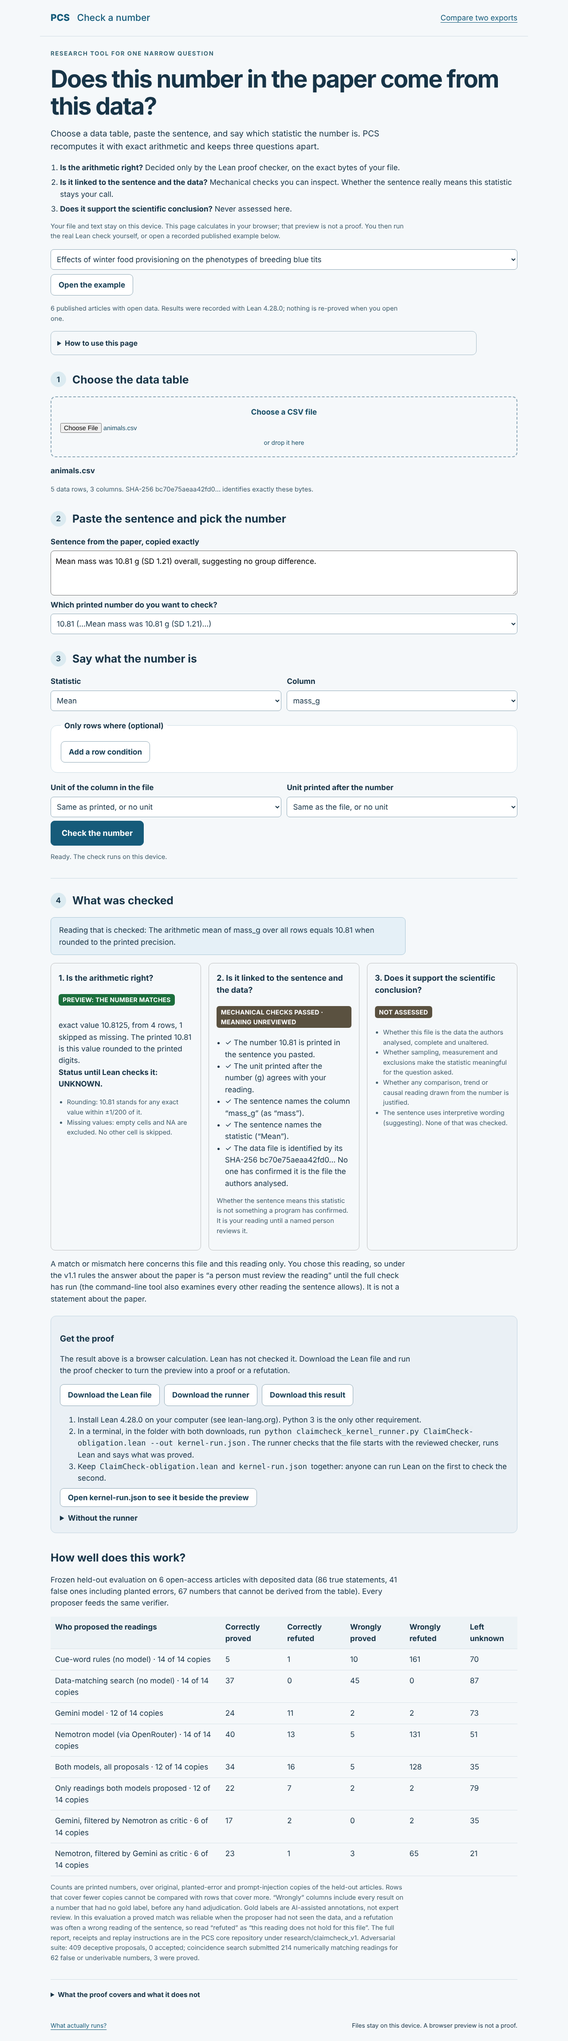
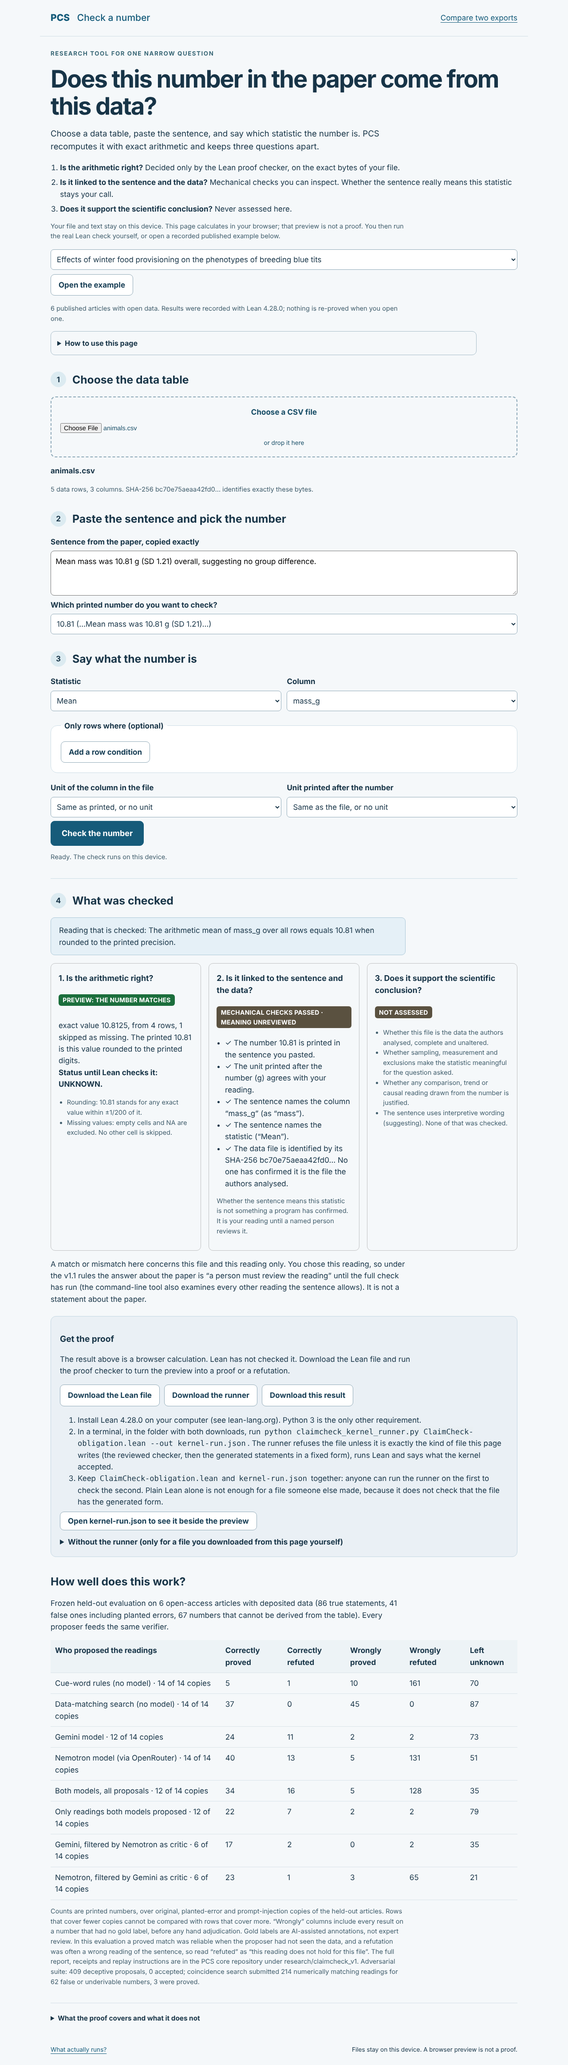
Claim check: serve the strict kernel runner; accept only its receipts; say what a kernel run verifies
Owner decisions C3/D4, authorised 2026-11-16 for preparation and testing. Not
deployed, not merged.

- public/claim-check/claimcheck_kernel_runner.py is now the core repository's
  strict runner (core commits d5a36975, 2de4f872; SHA-256 fe974a9f..., receipt
  schema v2). It refuses, before starting Lean, any proof file whose generated
  part is not exactly in the generator's form. examples.json pins the new digest
  and lists the withdrawn runner (8d9e07b4..., schema v1) with the reason.
- The page accepts only v2 receipts, refuses v1 receipts with the reason,
  requires generated_part_canonical, checks that the reported outcomes agree
  with the proof file it builds, and words each result itself instead of
  showing text from the report. Beside every reported run it says what a kernel
  run verifies (the supplied mathematical obligation, about the exact bytes of
  this file) and what no kernel run verifies (that the obligation faithfully
  represents the sentence, the number or the data of a paper).
- The page no longer suggests that plain Lean checks a proof file someone else
  made; it points to the runner, which checks the file's form.
- tests/claim-check-page.test.mjs runs the served runner: a page-built proof
  file (8 claims, every claim shape, an undefined outcome) reaches Lean; the
  reported forgery and a file with an extra definition are refused and Lean is
  never started.
- scripts/browser_claim_check.cjs, with the real Lean 4.28.0 kernel: the
[…]

diff --git a/public/claim-check.html b/public/claim-check.html
@@ -15,8 +15,8 @@
 <section id="result" hidden tabindex="-1"><div class="step-title"><span>4</span><h2>What was checked</h2></div><p id="reading" class="notice"></p>
 <div class="cards"><article id="q1"><h3>1. Is the arithmetic right?</h3><p id="q1Status" class="badge"></p><p id="q1Text"></p><ul id="q1Assumptions" class="small"></ul></article><article id="q2"><h3>2. Is it linked to the sentence and the data?</h3><p id="q2Status" class="badge"></p><ul id="q2Checks"></ul><p class="small">Whether the sentence means this statistic is not something a program has confirmed. It is your reading until a named person reviews it.</p></article><article id="q3"><h3>3. Does it support the scientific conclusion?</h3><p class="badge neutral">NOT ASSESSED</p><ul id="q3List" class="small"></ul></article></div>
 <p id="scope"></p>
-<div class="local-check"><h3>Get the proof</h3><p id="proofText">The result above is a browser calculation. Lean has not checked it.</p><div class="toolbar"><button id="downloadLean" disabled>Download the Lean file</button><a id="runnerLink" class="file-button secondary" href="claim-check/claimcheck_kernel_runner.py" download>Download the runner</a><button id="downloadDraft" disabled>Download this result</button></div><ol><li>Install Lean 4.28.0 on your computer (see lean-lang.org). Python 3 is the only other requirement.</li><li>In a terminal, in the folder with both downloads, run <code>python claimcheck_kernel_runner.py ClaimCheck-obligation.lean --out kernel-run.json</code>. The runner checks that the file starts with the reviewed checker, runs Lean and says what was proved.</li><li>Keep <code>ClaimCheck-obligation.lean</code> and <code>kernel-run.json</code> together: anyone can run Lean on the first to check the second.</li></ol><label class="file-button secondary">Open kernel-run.json to see it beside the preview<input id="kernelRun" type="file" accept=".json,application/json"></label><p id="kernelRunStatus" class="notice" role="status" hidden></p><details><summary>Without the runner</summary><ol><li>Run <code>lean ClaimCheck-obligation.lean</code> in a terminal.</li><li>If Lean prints only a line that starts with <code>'pcs_claim_0' depends on axioms:</code> and lists nothing beyond <code>propext</code>, <code>Classical.choice</code> and <code>Quot.sound</code>, the proof checker accepted the statement. Any error means it did not.</li></ol><p class="small">The file contains the fixed checker, your data as one number, the claim and the expected outcome. The proof checker parses the bytes and recomputes the statistic itself. Nothing computed by this page is taken on trust.</p></details></div></section>
+<div class="local-check"><h3>Get the proof</h3><p id="proofText">The result above is a browser calculation. Lean has not checked it.</p><div class="toolbar"><button id="downloadLean" disabled>Download the Lean file</button><a id="runnerLink" class="file-button secondary" href="claim-check/claimcheck_kernel_runner.py" download>Download the runner</a><button id="downloadDraft" disabled>Download this result</button></div><ol><li>Install Lean 4.28.0 on your computer (see lean-lang.org). Python 3 is the only other requirement.</li><li>In a terminal, in the folder with both downloads, run <code>python claimcheck_kernel_runner.py ClaimCheck-obligation.lean --out kernel-run.json</code>. The runner refuses the file unless it is exactly the kind of file this page writes (the reviewed checker, then the generated statements in a fixed form), runs Lean and says what the kernel accepted.</li><li>Keep <code>ClaimCheck-obligation.lean</code> and <code>kernel-run.json</code> together: anyone can run the runner on the first to check the second. Plain Lean alone is not enough for a file someone else made, because it does not check that the file has the generated form.</li></ol><label class="file-button secondary">Open kernel-run.json to see it beside the preview<input id="kernelRun" type="file" accept=".json,application/json"></label><p id="kernelRunStatus" class="notice" role="status" hidden></p><details><summary>Without the runner (only for a file you downloaded from this page yourself)</summary><ol><li>Run <code>lean ClaimCheck-obligation.lean</code> in a terminal.</li><li>If Lean prints only a line that starts with <code>'pcs_claim_0' depends on axioms:</code> and lists nothing beyond <code>propext</code>, <code>Classical.choice</code> and <code>Quot.sound</code>, the proof checker accepted the statement. Any error means it did not.</li></ol><p class="small">The file contains the fixed checker, your data as one number, the claim and the expected outcome. The proof checker parses the bytes and recomputes the statistic itself. Nothing computed by this page is taken on trust.</p></details></div></section>
 <section id="recorded" hidden><h2>Recorded Lean results for this example</h2><p id="recordedNote" class="small"></p><div class="table-scroll"><table><thead><tr><th>What can be said (v1.1 rules)</th><th>Mathematics (recorded Lean result)</th><th>Sentence in the paper</th><th>Reading that was checked</th><th>Exact value</th></tr></thead><tbody id="recordedRows"></tbody></table></div><p id="recordedBinding" class="small" role="status"></p><div class="toolbar"><button id="recordedLean" disabled>Download the Lean file</button><button id="recordedReceipts">Download the receipts</button><button id="recordedData">Download the data</button></div><p id="recordedSource" class="small"></p></section>
 <section id="evidence"><h2>How well does this work?</h2><p id="benchmarkText">Loading the held-out evaluation.</p><div class="table-scroll"><table id="benchmarkTable" hidden><thead><tr><th>Who proposed the readings</th><th>Correctly proved</th><th>Correctly refuted</th><th>Wrongly proved</th><th>Wrongly refuted</th><th>Left unknown</th></tr></thead><tbody id="benchmarkRows"></tbody></table></div><p id="benchmarkNotes" class="small"></p></section>
-<details class="scope"><summary>What the proof covers and what it does not</summary><p>The Lean statement is about a fixed, published checker: it parses the exact bytes of the CSV file, selects rows, computes the statistic with exact fractions and compares it with the printed value at the printed precision. Standard deviations and correlations are compared by squaring, which a separate proof shows is the same as the real-number comparison.</p><p>A proof does not show that the file is the data the authors analysed, that the sentence means this statistic, or that the number supports any conclusion. A refutation shows a mismatch for this file under this reading. It does not show that the paper is wrong.</p><p>Supported: counts, shares, sums, means, medians, minima, maxima, standard deviations, standard errors, sample variances, Pearson correlations and two-variable least-squares lines, over one comma-separated table of at most 64 KB. Not supported: test statistics, model estimates, quantiles, distinct counts, weighted or transformed values, tables inside the paper, and several data files at once.</p></details>
+<details class="scope"><summary>What the proof covers and what it does not</summary><p>The Lean statement is about a fixed, published checker: it parses the exact bytes of the CSV file, selects rows, computes the statistic with exact fractions and compares it with the printed value at the printed precision. Standard deviations and correlations are compared by squaring, which a separate proof shows is the same as the real-number comparison.</p><p>A kernel run verifies the supplied mathematical obligation and nothing more: that this typed statement about the fixed checker holds for the exact bytes of the file. It does not verify that the obligation faithfully represents the paper. A proof does not show that the file is the data the authors analysed, that the sentence means this statistic, or that the number supports any conclusion. A refutation shows a mismatch for this file under this reading. It does not show that the paper is wrong.</p><p>Supported: counts, shares, sums, means, medians, minima, maxima, standard deviations, standard errors, sample variances, Pearson correlations and two-variable least-squares lines, over one comma-separated table of at most 64 KB. Not supported: test statistics, model estimates, quantiles, distinct counts, weighted or transformed values, tables inside the paper, and several data files at once.</p></details>
 <noscript>This private tool needs JavaScript to read files on your device.</noscript></main><footer><a href="capabilities.html">What actually runs?</a><span>Files stay on this device. A browser preview is not a proof.</span></footer><script type="module" src="page-help.mjs"></script></body></html>

diff --git a/public/claim-check/claimcheck_kernel_runner.py b/public/claim-check/claimcheck_kernel_runner.py
@@ -10,14 +10,24 @@ proof file the ClaimCheck web page lets you download.  A browser can calculate; 
 What it checks before trusting a "pass":
   * the file starts with the reviewed checker (its SHA-256 is fixed below; override with
     --checker-sha256 only if you obtained another reviewed digest independently);
-  * the generated part contains no escape hatch (sorry, native_decide, axiom, unsafe, ...);
+  * the generated part is exactly in the form the ClaimCheck generator writes: one data numeral,
+    claim records built from literals only, one batch theorem, and one fixed-form theorem per claim
+    proved from the batch theorem.  Anything else -- another definition (for example one that
+    shadows `run`), a macro, a comment, an option, a different proof, text after the last theorem --
+    is refused before Lean is started;
   * `lean` is version 4.28.0, exits 0, prints nothing on stderr, and prints exactly one axiom
     report per claim theorem, in order, naming only the three standard axioms.
 
-What a pass means: each theorem `run pcs_src pcs_c<i> = <outcome>` in the file is true of the data
-bytes embedded in the file.  The expected outcome (matches / does not match the printed number) is
-part of the theorem text; this program reports it.  A pass says nothing about whether a sentence in
-a paper means that statement, or whether the bytes are the authors' data.
+Receipt schema pcs-claimcheck-kernel-run-v2.  The previous runner (schema v1) checked the
+generated part only for a few forbidden words and accepted a hand-written proof file that defined
+its own `run`; do not rely on v1 receipts for files you did not generate yourself.
+
+What a pass means, and what it does not:
+  * it verifies the supplied mathematical obligation: each theorem `run pcs_src pcs_c<i> = <outcome>`
+    in the file, about the reviewed checker's `run`, is true of the data bytes embedded in the file;
+  * it does not verify that the obligation faithfully represents a paper: whether a sentence means
+    that statement, whether the reported value is the paper's number, and whether the bytes are the
+    authors' data are not established by any kernel run.
 """
 import argparse
 import datetime
@@ -35,7 +45,91 @@ REVIEWED_CHECKER_SHA256 = "35c83b283b18f50c3fa9d1bb3f42ec0beca1d6a7458d14ebf7180
 MARKER = "\n-- ===== generated obligations (data numeral, claims, expected outcomes) =====\n"
 FORBIDDEN = ("sorry", "native_decide", "axiom ", "unsafe ", "implemented_by", "extern ", "partial ", "ofReduceBool")
 ALLOWED_AXIOMS = {"propext", "Classical.choice", "Quot.sound"}
-SCHEMA = "pcs-claimcheck-kernel-run-v1"
+SCHEMA = "pcs-claimcheck-kernel-run-v2"
+
+
+# ---- strict grammar of the generated part: exactly the language of claimcheck_v1/lean.py::batch_tail ----
+
+NAT = r"(?:0|[1-9][0-9]*)"
+INT = r"-?(?:0|[1-9][0-9]*)"
+SAFE = r"[A-Za-z0-9 _.,:;()\[\]%/+\-#=<>&*!?@^|~]*"
+BYTES = rf'(?:b "{SAFE}"|\[(?:{NAT}(?:, {NAT})*)?\])'
+RAT = rf"\(\({INT} : Rat\) / [1-9][0-9]*\)"
+CMP = r"\.(?:eq|ne|lt|le|gt|ge)"
+COND = rf"(?:\.textEq \({BYTES}\) \({BYTES}\)|\.textNe \({BYTES}\) \({BYTES}\)|\.num \({BYTES}\) {CMP} {RAT})"
+CONDS = rf"\[(?:{COND}(?:, {COND})*)?\]"
+STAT = (rf"(?:\.count|\.sum|\.mean|\.median|\.min|\.max|\.varSample|\.sdSample|\.sdPop|\.sem|\.share {CONDS}"
+        rf"|\.pearson \({BYTES}\)|\.olsSlope \({BYTES}\)|\.olsIntercept \({BYTES}\))")
+COLUMN = rf"(?:none|some \({BYTES}\))"
+NALIST = rf"\[(?:{BYTES}(?:, {BYTES})*)?\]"
+VALUE = rf"(?:\(\.rat {RAT}\)|\(\.sqrt \({INT} : Int\) {RAT}\))"
+OUTCOME = rf"(?:\.undefined \.[A-Za-z]+|\.checked \.(?:consistent|inconsistent) {VALUE} {NAT} {NAT})"
+
+PREAMBLE = "open PCS.ClaimCheck\n\n"
+SRC = re.compile(r"def pcs_src : Source := ⟨0x([0-9a-f]+), (0|[1-9][0-9]*)⟩\n\n")
+OUTCOME_RE = re.compile(OUTCOME)
+MAX_CLAIMS = 256
+MAX_DATA_BYTES = 65536          # the generator's bound (claimcheck_v1/lean.py) and MAXD of the Lean header model
+
+
+class NotCanonical(ValueError):
+    pass
+
+
+def _claim(i: int):
+    return re.compile(rf"def pcs_c{i} : Claim :=\n  \{{ column := {COLUMN},\n    filter := {CONDS},\n    stat := {STAT},\n"
+                      rf"    naTokens := {NALIST},\n    scale := {RAT},\n    reported := {BYTES} \}}\n\n")
+
+
+def parse_tail(tail: str):
+    """Return (data bytes, [outcome literal per claim]) or raise NotCanonical."""
+    if not tail.startswith(PREAMBLE):
+        raise NotCanonical("the generated part does not start with the fixed preamble")
+    pos = len(PREAMBLE)
+    m = SRC.match(tail, pos)
+    if not m:
+        raise NotCanonical("no canonical data numeral")
+    digits, size = m.group(1), int(m.group(2))
+    if size > MAX_DATA_BYTES:
+        raise NotCanonical(f"the embedded data has {size} bytes; this runner accepts at most {MAX_DATA_BYTES}")
+    if not ((size == 0 and digits == "0") or (size > 0 and len(digits) == 2 * size)):
+        raise NotCanonical("the data numeral is not the two-digits-per-byte dump of a file of the stated length")
+    data = bytes.fromhex(digits) if size else b""
+    pos = m.end()
+    n = 0
+    while n < MAX_CLAIMS:
+        m = _claim(n).match(tail, pos)
+        if not m:
+            break
+        pos, n = m.end(), n + 1
+    if n == 0:
+        raise NotCanonical("no claim in canonical form")
+    if n == MAX_CLAIMS and _claim(n).match(tail, pos):
+        raise NotCanonical(f"more than {MAX_CLAIMS} claims in one file; this runner accepts at most {MAX_CLAIMS}")
+    head = "theorem pcs_batch : runAll pcs_src [" + ", ".join(f"pcs_c{i}" for i in range(n)) + "] =\n    ["
+    if not tail.startswith(head, pos):
+        raise NotCanonical("the batch theorem is missing or does not list exactly the claims defined")
+    pos += len(head)
+    outcomes = []
+    for i in range(n):
+        m = OUTCOME_RE.match(tail, pos)
+        if not m:
+            raise NotCanonical(f"outcome {i} of the batch theorem is not a literal outcome")
+        outcomes.append(m.group(0))
+        pos = m.end()
+        sep = ",\n    " if i + 1 < n else "] := by decide +kernel\n\n"
+        if not tail.startswith(sep, pos):
+            raise NotCanonical("the batch theorem is not in canonical form")
+        pos += len(sep)
+    for i, outcome in enumerate(outcomes):
+        theorem = (f"theorem pcs_claim_{i} : run pcs_src pcs_c{i} = {outcome} :=\n"
+                   f"  run_of_runAll pcs_batch {i} rfl rfl\n#print axioms pcs_claim_{i}\n\n")
+        if not tail.startswith(theorem, pos):
+            raise NotCanonical(f"theorem pcs_claim_{i} is missing, altered or states another outcome than the batch theorem")
+        pos += len(theorem)
+    if pos != len(tail):
+        raise NotCanonical("there is text after the last theorem")
+    return data, outcomes
 
 
 def sha(data):
@@ -67,21 +161,14 @@ def run(path, lean, checker_sha256, timeout):
     bad = [w.strip() for w in FORBIDDEN if w in stripped]
     if bad:
         return fail(report, "the generated part contains a forbidden token: " + ", ".join(bad))
-    m = re.search(r"def pcs_src : Source := ⟨0x([0-9a-f]+), ([0-9]+)⟩", tail)
-    if not m:
-        return fail(report, "no embedded data numeral found")
-    size = int(m.group(2))
-    digits = m.group(1)
     try:
-        data = bytes.fromhex(digits.rjust(2 * size, "0")) if size else b""
-    except ValueError:
-        return fail(report, "the embedded data numeral is malformed")
-    if len(data) != size:
-        return fail(report, "the embedded data numeral does not fit its stated length")
+        data, outcomes = parse_tail(tail)
+    except NotCanonical as exc:
+        return fail(report, "the generated part is not in canonical form (" + str(exc) + "); nothing was run")
+    size = len(data)
+    report["generated_part_canonical"] = True
     report["data_sha256"], report["data_bytes"] = sha(data), size
-    stated = re.findall(r"theorem pcs_claim_(\d+) : run pcs_src pcs_c\1 = (.+?) :=\n", tail)
-    if not stated or [int(i) for i, _ in stated] != list(range(len(stated))):
-        return fail(report, "the claim theorems are missing or not numbered 0, 1, 2, ...")
+    stated = [(str(i), o) for i, o in enumerate(outcomes)]
     lean = lean or os.environ.get("PCS_CLAIMCHECK_LEAN") or shutil.which("lean")
     if not lean:
         return fail(report, "no `lean` executable found; install Lean 4.28.0 (https://lean-lang.org) or pass --lean", 2)
@@ -119,14 +206,19 @@ def run(path, lean, checker_sha256, timeout):
         if not m or int(m.group(1)) != i or not axioms <= ALLOWED_AXIOMS:
             return fail(report, "axiom report %d is missing, out of order or names a non-standard axiom" % i)
         outcome = stated[i][1].strip()
-        kind = ("the printed number MATCHES the file under this statement" if outcome.startswith(".checked .consistent") else
-                "the printed number DOES NOT MATCH the file under this statement" if outcome.startswith(".checked .inconsistent") else
-                "the statistic is UNDEFINED for this file under this statement")
+        kind = ("the reported value MATCHES the statistic of the embedded data under this typed statement"
+                if outcome.startswith(".checked .consistent") else
+                "the reported value DOES NOT MATCH the statistic of the embedded data under this typed statement"
+                if outcome.startswith(".checked .inconsistent") else
+                "the statistic is UNDEFINED for the embedded data under this typed statement")
         report["theorems"].append({"theorem": "pcs_claim_%d" % i, "kernel_accepted": True, "proved_outcome": outcome,
                                    "in_words": kind, "axioms": sorted(axioms)})
     report["accepted"] = True
-    report["meaning"] = ("The Lean kernel checked every theorem listed here against the data bytes embedded in the proof file. This is a statement "
-                         "about those bytes and the typed statement in the file. It is not a statement about a paper.")
+    report["meaning"] = ("The Lean kernel checked every theorem listed here against the data bytes embedded in the proof file: the supplied "
+                         "mathematical obligation holds. This does not show that the obligation faithfully represents a paper: whether a "
+                         "sentence means this statement, and whether these bytes are the authors' data, are not established by a kernel run.")
+    report["establishes"] = "the supplied mathematical obligation, about the embedded data bytes"
+    report["does_not_establish"] = "that the obligation represents any sentence of a paper, or that the bytes are the authors' data"
     return report, 0
 
 

diff --git a/docs/CLAIM_CHECK_V1.md b/docs/CLAIM_CHECK_V1.md
@@ -29,18 +29,35 @@ The browser never runs Lean and never says it did. The route to a real result is
    Python file, standard library only, no network use; the same bytes as
    `research/claimcheck_v1_1/claimcheck_kernel_runner.py` in the core repository).
 2. With Lean 4.28.0 installed: `python claimcheck_kernel_runner.py ClaimCheck-obligation.lean --out kernel-run.json`.
-   The runner refuses a file that does not start with the reviewed checker (by SHA-256) or that
-   contains `sorry`, `axiom` and similar; it runs Lean, reads the axioms each theorem depends on, and
-   writes what was proved.
+   The runner refuses a file that does not start with the reviewed checker (by SHA-256), and it
+   refuses, before starting Lean, any file whose generated part is not exactly in the form the
+   generator writes (one data numeral, claims built from literals, one batch theorem, one fixed-form
+   theorem per claim). Then it runs Lean, reads the axioms each theorem depends on, and writes what
+   the kernel accepted (receipt schema `pcs-claimcheck-kernel-run-v2`).
+
+   **Correction, 16 November 2026.** The runner served until then (schema v1, SHA-256 `8d9e07b4…`)
+   checked the generated part only for a few forbidden words. A hand-written file that defined its
+   own `run` and proved the expected equation by `rfl` passed the Lean kernel, and that runner
+   reported a match for it, although the theorem said nothing about the reviewed checker (finding
+   `research/claimcheck_assurance_v1/findings/RUNNER_TAIL_FORGERY.md` in the core repository). It is
+   withdrawn, and the page refuses its receipts with that reason. Proof files the page itself built
+   were never affected; the recorded examples were never affected.
 3. Optionally open `kernel-run.json` in the page. The page compares the proof-file, data and checker
    digests in it with the ones it built and shows the outcome under the label
-   **"REPORTED BY YOUR LOCAL RUN · NOT VERIFIED BY THIS PAGE"**. A report for other data or another
-   proof file is refused. The page cannot know that Lean ran; anyone who needs to know runs Lean on
-   the proof file, which is the evidence.
+   **"REPORTED BY YOUR LOCAL RUN · NOT VERIFIED BY THIS PAGE"**, worded by the page from its own
+   results. A report for other data or another proof file, or from the withdrawn runner, is refused.
+   The page cannot know that Lean ran; anyone who needs to know runs the runner on the proof file
+   (plain Lean alone does not check that a file someone else made has the generated form).
 
-For a complete record with the v1.1 rules applied (other readings of the sentence, chance of
-coincidence, support from other numbers) the command-line tool in the core repository is the
-route: `python -m research.claimcheck_v1_1 verify …`, replayable with
+What a kernel run verifies, and the page says so beside every reported run: the supplied
+mathematical obligation, that is, that this typed statement about the reviewed checker holds for
+the exact bytes of the file. What no kernel run verifies: that the obligation faithfully represents
+the sentence in the paper, that the printed number is the paper's number, or that the file is the
+authors' data.
+
+For a complete record with the v1.1 rules applied (other readings of the sentence, how many
+comparable numbers those readings reproduce, support from other numbers) the command-line tool in
+the core repository is the route: `python -m research.claimcheck_v1_1 verify …`, replayable with
 `replay_independent_v1_1.py`.
 
 ## What can be said: the v1.1 verdicts
@@ -122,8 +139,10 @@ recorded example opened and rebuilt, the user's own data with a true statement, 
 convention-dependent standard deviation, a false statement, a reading the sentence does not
 support, and a malformed file. The Lean file the browser generated was put to the real Lean 4.28.0
 kernel through the served runner, the runner's report was opened in the page and shown as reported
-and not verified, and two altered reports (other data, other proof file) were refused. The recorded
-Lean file downloaded from the page was accepted by the kernel as well. No external request and no
+and not verified, with what it does and does not verify, and three altered reports (other data,
+other proof file, a receipt of the withdrawn runner) were refused. The forged proof file of the
+runner finding was accepted by plain Lean and refused by the served runner before Lean was asked
+anything. The recorded Lean file downloaded from the page was accepted by the kernel as well. No external request and no
 page error occurred. This is authored automation.
 
 No human usability study has been run on this page. A protocol is prepared in the core repository

diff --git a/docs/governance/CLAIMCHECK_PROPOSALS.md b/docs/governance/CLAIMCHECK_PROPOSALS.md
@@ -152,27 +152,43 @@ above the recorded Lean result, and when the "not verified by this page" label i
 
 **Also the owner's:** whether `claim-check-page` becomes a required status check in the ruleset.
 
-## 4. Known defect in the served runner (found 2026-11-15)
+## 4. Defect in the served runner (found 2026-11-15, corrected on this branch 2026-11-16)
 
-`public/claim-check/claimcheck_kernel_runner.py` (a copy of the core repository's v1.1 runner)
-accepts a hand-written proof file that defines its own `run` and reports "MATCHES" with
-`accepted: true`. Reproduced with the real Lean kernel; details, scope and a tested fix are in the
-core repository: `research/claimcheck_assurance_v1/findings/RUNNER_TAIL_FORGERY.md` (draft PR
+The runner served until 16 November 2026 (`public/claim-check/claimcheck_kernel_runner.py`, a copy
+of the core repository's v1.1 runner, SHA-256 `8d9e07b4…`, receipt schema v1) accepted a
+hand-written proof file that defines its own `run` and reported "MATCHES" with `accepted: true`.
+Reproduced with the real Lean kernel; details and scope in the core repository:
+`research/claimcheck_assurance_v1/findings/RUNNER_TAIL_FORGERY.md` (draft PR
 Tommaso-R-Marena/proof-carrying-science#216).
 
-What is and is not affected on this page:
+**Correction (owner decisions C3 and D4, authorised 2026-11-16 for preparation and testing; not
+deployed, not merged).** The served copy is now the core repository's strict runner (commits
+`d5a36975` and `2de4f872` there; SHA-256 `fe974a9f…`, receipt schema v2): it refuses, before starting Lean, any
+file whose generated part is not exactly in the generator's form. `examples.json` pins the new digest
+and lists the withdrawn one with the reason. The page accepts only v2 receipts, refuses v1 receipts
+with the reason, words each reported result itself instead of taking text from the report, and says
+beside every reported run what a kernel run verifies (the supplied mathematical obligation) and what
+it does not (that the obligation faithfully represents the sentence, the number or the data of a
+paper).
 
-* the page's display of a local `kernel-run.json` is **not** affected: it shows a report only if
+Tests: `tests/claim-check-page.test.mjs` runs the served runner on a page-built proof file (reaches
+Lean), on the reported forgery and on a file with an extra definition (both refused, Lean never
+started); `scripts/browser_claim_check.cjs`, with the real Lean 4.28.0 kernel, shows the forgery
+accepted by plain Lean and refused by the served runner, and a v1 receipt refused by the page
+(`docs/evidence/claim-check-v1/browser-journey.json`).
+
+What was and was not affected before the correction:
+
+* the page's display of a local `kernel-run.json` was **not** affected: it shows a report only if
   the report's `proof_file_sha256` equals the proof file the page built itself;
-* the recorded examples are **not** affected: the page rebuilds each proof file and compares digests;
-* the advice "anyone can run Lean on the proof file to check the second" is affected when the proof
-  file comes from someone else: the runner's report then proves nothing about the checker.
-
-Not changed here. If the owner replaces the core runner by the v2 runner, the served copy, its digest
-in `examples.json` and the page test that pins it change together; until then the page should not
-be deployed (it is not).
+* the recorded examples were **not** affected: the page rebuilds each proof file and compares digests;
+* the advice "anyone can run Lean on the proof file to check the second" was affected when the proof
+  file came from someone else. The page now says to use the runner for that, and that plain Lean
+  alone does not check a file's form.
 
 ## Not proposed
 
 No change to any ruleset, required check, bypass list, deployment setting, secret, or to the
-Worker. No existing test is skipped, loosened or removed. No historical evidence file is edited.
+Worker. No existing test is skipped, loosened or removed. No historical evidence file is edited (the
+ClaimCheck browser-journey record, which this branch introduced, is regenerated with each change of
+the page).
